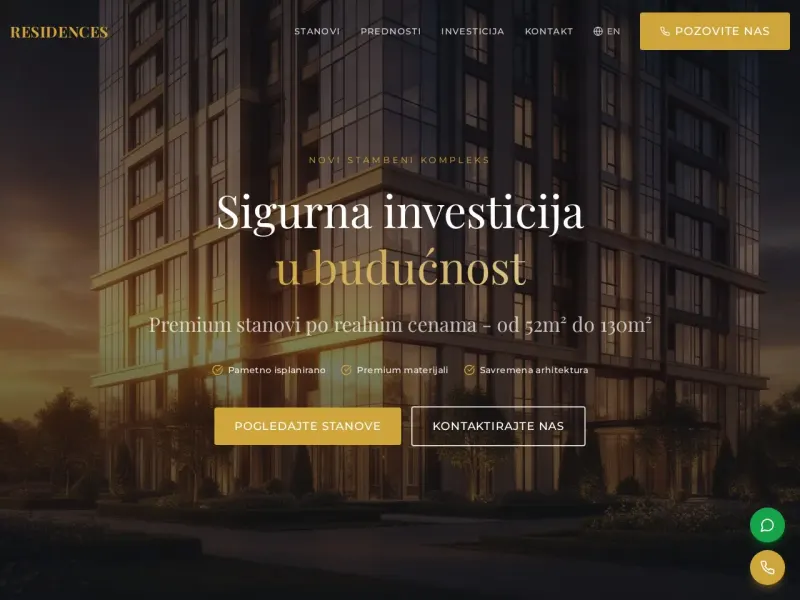
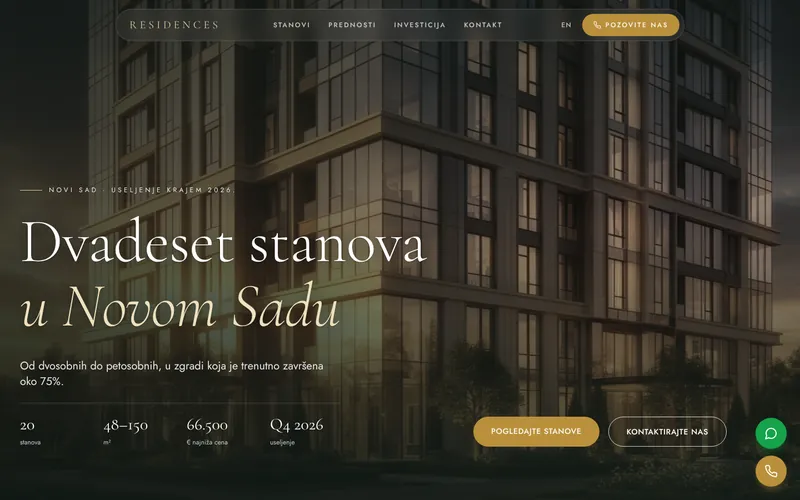
Portfolio: add lawyer and physiotherapist sites, refresh Residence, remove Badbyte
- New case studies (SR and EN): dr Vladimir Borovac (bilingual law office site)
  and Fizioterapija Malešević (online booking with free-slot calendar)
- Residence: new screenshot of the current site and updated description
- Badbyte removed from portfolio, sitemap and llms.txt; old URLs redirect (301)
  to the work section. Its client testimonial stays as is.

Claude-Session: https://claude.ai/code/session_0137GWbS2cUQ9nRC8PH2tgcS

diff --git a/src/lib/projects.ts b/src/lib/projects.ts
@@ -4,8 +4,10 @@ import remiImage from "@/assets/project-remielectric.webp";
 import remiImageSmall from "@/assets/project-remielectric-800.webp";
 import residenceImage from "@/assets/project-residence.webp";
 import residenceImageSmall from "@/assets/project-residence-800.webp";
-import badbyteImage from "@/assets/project-badbyte.webp";
-import badbyteImageSmall from "@/assets/project-badbyte-800.webp";
+import advokatImage from "@/assets/project-advokat.webp";
+import advokatImageSmall from "@/assets/project-advokat-800.webp";
+import fizioImage from "@/assets/project-fizioterapija.webp";
+import fizioImageSmall from "@/assets/project-fizioterapija-800.webp";
 import vojkanImage from "@/assets/project-vojkan.webp";
 import vojkanImageSmall from "@/assets/project-vojkan-800.webp";
 import { projectsEn } from "@/content/projects.en";
@@ -47,33 +49,6 @@ export type Project = {
 };
 
 export const projects: Project[] = [
-  {
-    id: "badbyte",
-    title: "Badbyte",
-    niche: "Sajt za web studio",
-    category: "Biznis",
-    client: "Badbyte Studio",
-    year: "2026",
-    seoDescription:
-      "Studija slučaja: sajt za web development studio iz Novog Sada sa jasnom ponudom, cenama, utiscima klijenata i formom za zahtev za ponudu.",
-    description:
-      "Sajt za web development studio iz Novog Sada sa jasnom ponudom, cenama i pozivom na akciju.",
-    problem:
-      "Studio je nudio više usluga, ali bez sajta koji ih jasno predstavlja i pretvara posetioce u upite.",
-    solution:
-      "Napravljen je moderan sajt sa pregledom usluga i cena, rezultatima, utiscima klijenata i formom za ponudu.",
-    result: "Jasna ponuda na jednom mestu i više direktnih upita za saradnju.",
-    technologies: ["React", "TypeScript", "Tailwind CSS", "Motion"],
-    deliverables: ["UI/UX Dizajn", "Front-end Development", "SEO Optimizacija", "Forma za ponude"],
-    metrics: [
-      { label: "Usluge i cene", value: "Jasna ponuda", hint: "Sve na jednoj strani" },
-      { label: "Optimizovan sajt", value: "Brzina", hint: "Lagan kod i slike" },
-      { label: "Direktni upiti", value: "Forma", hint: "Zahtev za ponudu bez posrednika" },
-    ],
-    image: badbyteImage,
-    imageSmall: badbyteImageSmall,
-    url: "https://badbyte.netlify.app/",
-  },
   {
     id: "modni-frizer-vojkan",
     title: "Modni Frizer Vojkan",
@@ -158,7 +133,7 @@ export const projects: Project[] = [
     problem:
       "Kupci nisu imali gde da vide koji su stanovi slobodni, koliko koštaju i kako izgledaju.",
     solution:
-      "Napravljen je pregled svih stanova sa cenama, kvadraturom, spratom, galerijama i oznakom „prodato“, uz filtere po broju soba.",
+      "Napravljen je elegantan prodajni sajt za zgradu od dvadeset stanova: pregled svih stanova sa cenama, kvadraturom, spratom, galerijama i oznakom „prodato“, uz filtere po broju soba i rok useljenja.",
     result: "Zainteresovani kupci dolaze pripremljeni, sa konkretnim stanom u vidu.",
     technologies: ["React", "TypeScript", "Tailwind CSS", "Filter Engine"],
     deliverables: [
@@ -173,7 +148,6 @@ export const projects: Project[] = [
       { label: "Dostupnost stanova", value: "Ažurno", hint: "Oznake za prodato/slobodno" },
     ],
     image: residenceImage,
-    imageWidth: 1280,
     imageSmall: residenceImageSmall,
     url: "https://bcrnic.github.io/residence/",
   },
@@ -208,6 +182,70 @@ export const projects: Project[] = [
     image: misolutionsImage,
     imageSmall: misolutionsImageSmall,
     url: "https://bcrnic.github.io/MiSolutions/",
+  },
+  {
+    id: "advokat-borovac",
+    title: "dr Vladimir Borovac",
+    niche: "Sajt za advokatsku kancelariju",
+    category: "Biznis",
+    client: "Advokat dr Vladimir Borovac",
+    year: "2026",
+    seoDescription:
+      "Studija slučaja: dvojezični sajt advokata iz Novog Sada specijalizovanog za pravo žiga, sa oblastima rada, publikacijama i formom za konsultacije.",
+    description:
+      "Dvojezični sajt advokata iz Novog Sada, specijalizovanog za zaštitu žigova i industrijskog dizajna.",
+    problem:
+      "Advokatu sa uskom specijalizacijom treba sajt koji odmah gradi poverenje i jasno pokazuje u čemu je stručnjak, i domaćim i stranim klijentima.",
+    solution:
+      "Napravljen je ozbiljan, miran sajt na srpskom i engleskom: oblasti rada od prava žiga do parničnih postupaka, stranica o advokatu, publikacije i forma za zakazivanje konsultacija.",
+    result:
+      "Specijalizacija, stručni radovi i način rada su na jednom mestu, a strani klijenti imaju ceo sajt na engleskom.",
+    technologies: ["TanStack Start", "React", "TypeScript", "Tailwind CSS"],
+    deliverables: [
+      "Sajt na srpskom i engleskom",
+      "Oblasti rada",
+      "Publikacije",
+      "Forma za konsultacije",
+    ],
+    metrics: [
+      { label: "Jezici", value: "SR + EN", hint: "Za domaće i strane klijente" },
+      { label: "Oblasti rada", value: "6 oblasti", hint: "Od prava žiga do parnica" },
+      { label: "Stručni radovi", value: "Publikacije", hint: "Dokaz specijalizacije" },
+    ],
+    image: advokatImage,
+    imageSmall: advokatImageSmall,
+  },
+  {
+    id: "fizioterapija",
+    title: "Fizioterapija Malešević",
+    niche: "Sajt za fizioterapeuta i masažu",
+    category: "Zakazivanje",
+    client: "Fizioterapeut Miloš Malešević",
+    year: "2026",
+    seoDescription:
+      "Studija slučaja: sajt za fizioterapeuta iz Novog Sada sa uslugama, utiscima pacijenata i online zakazivanjem termina sa kalendarom slobodnih termina.",
+    description:
+      "Sajt za fizioterapeuta iz Novog Sada sa online zakazivanjem: pacijent bira slobodan dan i vreme.",
+    problem:
+      "Termini se dogovaraju telefonom tokom terapije, a pacijent ne zna unapred koji su termini slobodni.",
+    solution:
+      "Napravljen je topao sajt na jednoj strani sa uslugama, koracima oporavka, utiscima i pitanjima, i kalendarom za zakazivanje: pacijent bira uslugu, dan i vreme, a termin odmah nestaje iz ponude.",
+    result:
+      "Zakazivanje radi i dok je terapeut sa pacijentom, a on termine vidi, dodaje i otkazuje na posebnoj stranici.",
+    technologies: ["HTML", "CSS", "GSAP", "Supabase"],
+    deliverables: [
+      "Online zakazivanje",
+      "Kalendar slobodnih termina",
+      "Stranica za upravljanje terminima",
+      "Obaveštenja emailom",
+    ],
+    metrics: [
+      { label: "Zakazivanje", value: "Online", hint: "Slobodni dani i vreme" },
+      { label: "Pregled termina", value: "Admin", hint: "Dodavanje i otkazivanje" },
+      { label: "Potvrda", value: "Email", hint: "Terapeutu i pacijentu" },
+    ],
+    image: fizioImage,
+    imageSmall: fizioImageSmall,
   },
 ];
 

diff --git a/src/content/projects.en.ts b/src/content/projects.en.ts
@@ -14,29 +14,6 @@ export type ProjectTranslation = {
 };
 
 export const projectsEn: Record<string, ProjectTranslation> = {
-  badbyte: {
-    niche: "Website for a web studio",
-    description:
-      "A website for a web development studio from Novi Sad, with a clear offer, prices and a call to action.",
-    seoDescription:
-      "Case study: a website for a web development studio from Novi Sad with a clear offer, prices, client testimonials and a quote request form.",
-    problem:
-      "The studio offered several services, but had no website that presented them clearly and turned visitors into inquiries.",
-    solution:
-      "A modern website with an overview of services and prices, results, client testimonials and a quote request form.",
-    result: "A clear offer in one place and more direct inquiries for collaboration.",
-    deliverables: [
-      "UI/UX design",
-      "Front-end development",
-      "SEO optimization",
-      "Quote request form",
-    ],
-    metrics: [
-      { label: "Services and prices", value: "Clear offer", hint: "Everything on one page" },
-      { label: "Optimized website", value: "Speed", hint: "Lightweight code and images" },
-      { label: "Direct inquiries", value: "Form", hint: "Quote requests with no middleman" },
-    ],
-  },
   "modni-frizer-vojkan": {
     niche: "Website for a hair salon",
     client: "Salon Vojkan",
@@ -86,7 +63,7 @@ export const projectsEn: Record<string, ProjectTranslation> = {
     problem:
       "Buyers had nowhere to see which apartments were available, how much they cost and what they looked like.",
     solution:
-      "An overview of all apartments with prices, size, floor, galleries and a sold label, plus filters by number of rooms.",
+      "An elegant sales website for a twenty-apartment building: every apartment with price, size, floor, galleries and a sold label, plus filters by number of rooms and the move-in date.",
     result: "Interested buyers arrive prepared, with a specific apartment in mind.",
     deliverables: [
       "Apartment catalog",
@@ -122,6 +99,56 @@ export const projectsEn: Record<string, ProjectTranslation> = {
       { label: "Offer structure", value: "3 services", hint: "Clearly separated and explained" },
       { label: "Client results", value: "Case studies", hint: "Instead of a PDF brochure" },
       { label: "Business inquiries", value: "B2B form", hint: "Direct contact with the agency" },
+    ],
+  },
+  "advokat-borovac": {
+    niche: "Website for a law office",
+    client: "Attorney dr Vladimir Borovac",
+    description:
+      "A bilingual website for an attorney in Novi Sad specialising in trademark and industrial design protection.",
+    seoDescription:
+      "Case study: a bilingual website for a Novi Sad attorney specialising in trademark law, with practice areas, publications and a consultation form.",
+    problem:
+      "A lawyer with a narrow specialisation needs a website that builds trust at once and shows clearly what he is an expert in, for both local and foreign clients.",
+    solution:
+      "A calm, serious website in Serbian and English: practice areas from trademark law to litigation, an about page, publications and a form to book a consultation.",
+    result:
+      "The specialisation, published work and way of working are in one place, and foreign clients get the whole site in English.",
+    deliverables: [
+      "Serbian and English site",
+      "Practice areas",
+      "Publications",
+      "Consultation form",
+    ],
+    metrics: [
+      { label: "Languages", value: "SR + EN", hint: "For local and foreign clients" },
+      { label: "Practice areas", value: "6 areas", hint: "From trademarks to litigation" },
+      { label: "Published work", value: "Publications", hint: "Proof of specialisation" },
+    ],
+  },
+  fizioterapija: {
+    niche: "Website for a physiotherapist and massage",
+    client: "Physiotherapist Miloš Malešević",
+    description:
+      "A website for a physiotherapist in Novi Sad with online booking: patients pick a free day and time.",
+    seoDescription:
+      "Case study: a website for a Novi Sad physiotherapist with services, patient reviews and online booking with a calendar of free slots.",
+    problem:
+      "Appointments are arranged by phone during therapy sessions, and patients cannot see which slots are free.",
+    solution:
+      "A warm one-page website with services, recovery steps, reviews and FAQ, plus a booking calendar: patients pick a service, day and time, and the slot disappears from the offer at once.",
+    result:
+      "Booking works even while the therapist is with a patient, and he sees, adds and cancels appointments on a separate page.",
+    deliverables: [
+      "Online booking",
+      "Calendar of free slots",
+      "Appointment admin page",
+      "Email notifications",
+    ],
+    metrics: [
+      { label: "Booking", value: "Online", hint: "Free days and times" },
+      { label: "Appointments", value: "Admin", hint: "Add and cancel" },
+      { label: "Confirmation", value: "Email", hint: "To therapist and patient" },
     ],
   },
 };

diff --git a/vite.config.ts b/vite.config.ts
@@ -13,7 +13,8 @@ export default defineConfig({
     },
     pages: [
       { path: "/", prerender: { enabled: true } },
-      { path: "/projekat/badbyte", prerender: { enabled: true } },
+      { path: "/projekat/advokat-borovac", prerender: { enabled: true } },
+      { path: "/projekat/fizioterapija", prerender: { enabled: true } },
       { path: "/projekat/modni-frizer-vojkan", prerender: { enabled: true } },
       { path: "/projekat/remielectric", prerender: { enabled: true } },
       { path: "/projekat/residence", prerender: { enabled: true } },
@@ -26,7 +27,8 @@ export default defineConfig({
       { path: "/sajt-za-majstore", prerender: { enabled: true } },
       { path: "/odrzavanje-sajta", prerender: { enabled: true } },
       { path: "/en", prerender: { enabled: true } },
-      { path: "/en/project/badbyte", prerender: { enabled: true } },
+      { path: "/en/project/advokat-borovac", prerender: { enabled: true } },
+      { path: "/en/project/fizioterapija", prerender: { enabled: true } },
       { path: "/en/project/modni-frizer-vojkan", prerender: { enabled: true } },
       { path: "/en/project/remielectric", prerender: { enabled: true } },
       { path: "/en/project/residence", prerender: { enabled: true } },

diff --git a/src/components/home/portfolio.tsx b/src/components/home/portfolio.tsx
@@ -6,7 +6,14 @@ import { categoryLabel, getLocalizedProjects, type ProjectCategory } from "@/lib
 import { ProjectCard } from "./project-card";
 
 // Najpre radovi za glavnu publiku (saloni i majstori), pa ostali.
-const order = ["modni-frizer-vojkan", "remielectric", "residence", "misolutions", "badbyte"];
+const order = [
+  "modni-frizer-vojkan",
+  "remielectric",
+  "fizioterapija",
+  "advokat-borovac",
+  "residence",
+  "misolutions",
+];
 
 /**
  * Radovi: plakatni naslov sa brojačem, filteri po vrsti projekta i mreža kartica
